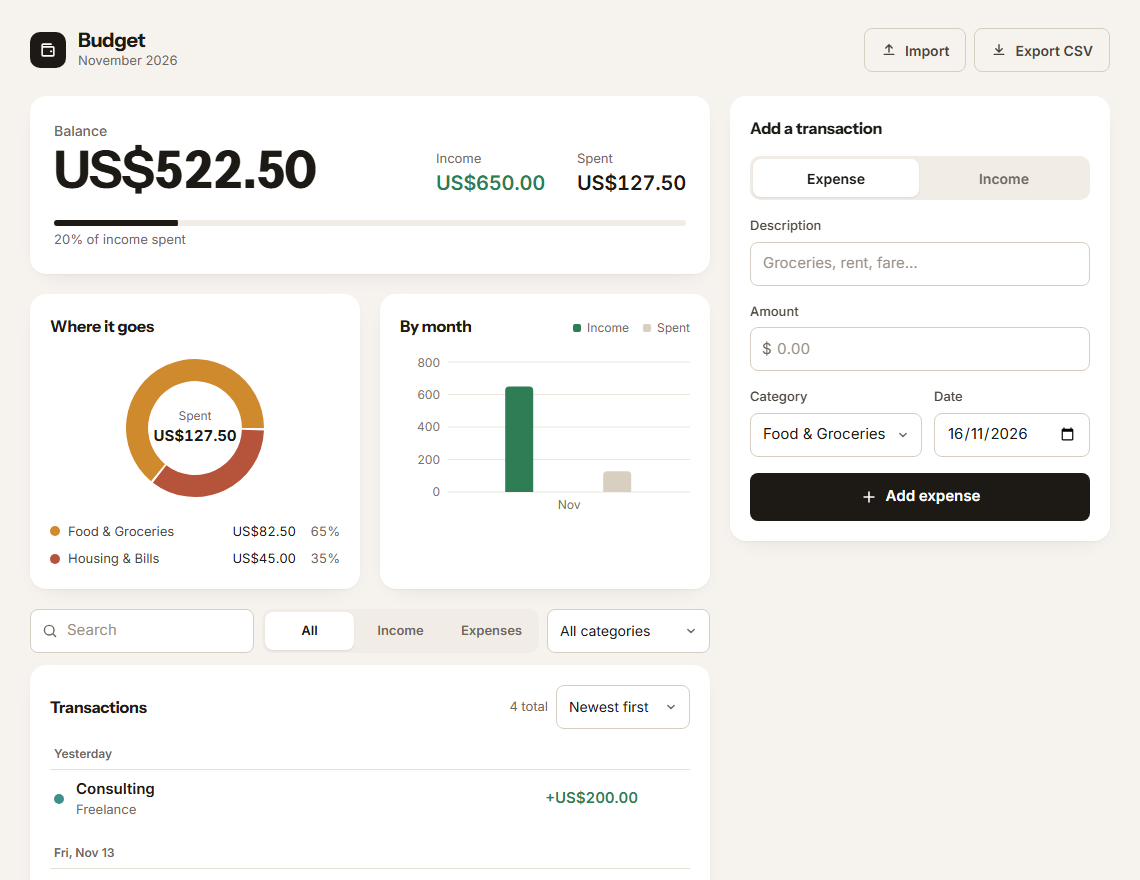
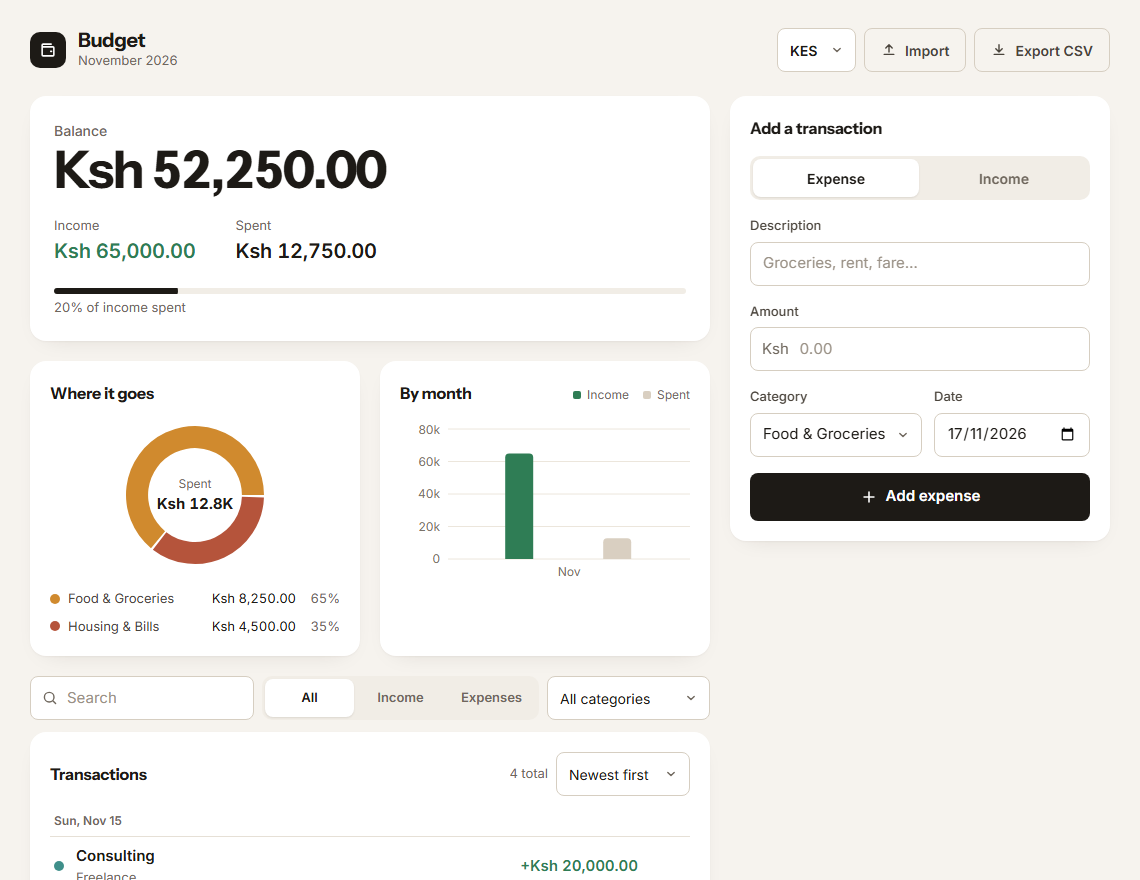
Add currency choice, default to Kenyan shillings
Amounts display in Ksh by default, with UGX, TZS, USD, EUR and GBP in a header picker. The choice is saved with the data (store v2 keeps existing transactions). The amount field shows the right symbol, the donut centre uses a short form, and the balance sits on its own row so long amounts never collide. Sample data now uses realistic shilling amounts.

The filter and sort bar from #2 (search, category, income/expense, sort order) shipped earlier and is part of the current layout.

Closes #5
Closes #2

diff --git a/src/store/useTransactionStore.ts b/src/store/useTransactionStore.ts
@@ -2,6 +2,7 @@ import { create } from 'zustand'
 import { persist, createJSONStorage } from 'zustand/middleware'
 import type { Transaction, TransactionDraft } from '../types'
 import { migrateLegacyData } from '../lib/migrateLegacyData'
+import { DEFAULT_CURRENCY, isCurrencyCode, type CurrencyCode } from '../lib/format'
 
 migrateLegacyData()
 
@@ -14,10 +15,10 @@ function seedTransactions(): Transaction[] {
   }
 
   return [
-    { id: crypto.randomUUID(), description: 'Freelance Project', amount: 450, category: 'freelance', date: isoDaysAgo(6) },
-    { id: crypto.randomUUID(), description: 'Groceries', amount: -82.5, category: 'food', date: isoDaysAgo(4) },
-    { id: crypto.randomUUID(), description: 'Electric Bill', amount: -45, category: 'housing', date: isoDaysAgo(3) },
-    { id: crypto.randomUUID(), description: 'Consulting', amount: 200, category: 'freelance', date: isoDaysAgo(1) },
+    { id: crypto.randomUUID(), description: 'Freelance Project', amount: 45000, category: 'freelance', date: isoDaysAgo(6) },
+    { id: crypto.randomUUID(), description: 'Groceries', amount: -8250, category: 'food', date: isoDaysAgo(4) },
+    { id: crypto.randomUUID(), description: 'Electric Bill', amount: -4500, category: 'housing', date: isoDaysAgo(3) },
+    { id: crypto.randomUUID(), description: 'Consulting', amount: 20000, category: 'freelance', date: isoDaysAgo(1) },
   ]
 }
 
@@ -27,6 +28,9 @@ interface TransactionState {
   deleteTransaction: (id: string) => void
   clearAll: () => void
   importTransactions: (transactions: Transaction[]) => void
+  /** ISO 4217 code used to display amounts. Amounts themselves are stored as plain numbers. */
+  currency: CurrencyCode
+  setCurrency: (currency: CurrencyCode) => void
 }
 
 export const useTransactionStore = create<TransactionState>()(
@@ -47,12 +51,23 @@ export const useTransactionStore = create<TransactionState>()(
       clearAll: () => set({ transactions: [] }),
 
       importTransactions: (transactions) => set({ transactions }),
+
+      currency: DEFAULT_CURRENCY,
+      setCurrency: (currency) => set({ currency }),
     }),
     {
       name: 'budget-tracker-storage',
-      version: 1,
+      version: 2,
       storage: createJSONStorage(() => window.localStorage),
-      partialize: (state) => ({ transactions: state.transactions }),
+      partialize: (state) => ({ transactions: state.transactions, currency: state.currency }),
+      // v1 saved only transactions; keep them and start on the default currency.
+      migrate: (persisted, version) => {
+        const state = (persisted ?? {}) as Partial<TransactionState>
+        if (version < 2 || !state.currency || !isCurrencyCode(state.currency)) {
+          return { ...state, currency: DEFAULT_CURRENCY } as TransactionState
+        }
+        return state as TransactionState
+      },
     }
   )
 )

diff --git a/src/App.tsx b/src/App.tsx
@@ -10,6 +10,7 @@ import TrendChart from './components/TrendChart'
 import ImportExportBar from './components/ImportExportBar'
 import Icon from './components/Icon'
 import { filterAndSortTransactions } from './lib/filters'
+import { CURRENCIES, isCurrencyCode, setActiveCurrency } from './lib/format'
 import type { Filters, Transaction } from './types'
 
 const DEFAULT_FILTERS: Filters = {
@@ -32,6 +33,11 @@ function App() {
   const deleteTransaction = useTransactionStore((s) => s.deleteTransaction)
   const clearAll = useTransactionStore((s) => s.clearAll)
   const replaceAll = useTransactionStore((s) => s.importTransactions)
+  const currency = useTransactionStore((s) => s.currency)
+  const setCurrency = useTransactionStore((s) => s.setCurrency)
+
+  // Formatting reads the active currency; set it before any child renders an amount.
+  setActiveCurrency(currency)
 
   const [filters, setFilters] = useState<Filters>(DEFAULT_FILTERS)
   const [notice, setNotice] = useState<Notice | null>(null)
@@ -72,15 +78,32 @@ function App() {
             <p>{monthLabel}</p>
           </div>
         </div>
-        <ImportExportBar
-          transactions={transactions}
-          onImport={(next, added) => {
-            const snapshot = transactions
-            replaceAll(next)
-            notify(`Imported ${added} ${added === 1 ? 'transaction' : 'transactions'}`, 'info', snapshot)
-          }}
-          onError={(m) => notify(m, 'error')}
-        />
+        <div className="topbar-tools">
+          <select
+            className="input input-sm currency-select"
+            value={currency}
+            onChange={(e) => {
+              if (isCurrencyCode(e.target.value)) setCurrency(e.target.value)
+            }}
+            aria-label="Currency"
+            title="Currency"
+          >
+            {CURRENCIES.map((c) => (
+              <option key={c.code} value={c.code} title={c.label}>
+                {c.code}
+              </option>
+            ))}
+          </select>
+          <ImportExportBar
+            transactions={transactions}
+            onImport={(next, added) => {
+              const snapshot = transactions
+              replaceAll(next)
+              notify(`Imported ${added} ${added === 1 ? 'transaction' : 'transactions'}`, 'info', snapshot)
+            }}
+            onError={(m) => notify(m, 'error')}
+          />
+        </div>
       </header>
 
       <main className="layout">

diff --git a/src/lib/format.ts b/src/lib/format.ts
@@ -1,9 +1,52 @@
 import { format, isToday, isYesterday, parseISO } from 'date-fns'
 
-const currencyFormatter = new Intl.NumberFormat(undefined, {
-  style: 'currency',
-  currency: 'USD',
-})
+// Each currency is shown the way it's written where it's used: KES as "Ksh 1,250.00".
+export const CURRENCIES = [
+  { code: 'KES', label: 'Kenyan shilling', locale: 'en-KE' },
+  { code: 'UGX', label: 'Ugandan shilling', locale: 'en-UG' },
+  { code: 'TZS', label: 'Tanzanian shilling', locale: 'en-TZ' },
+  { code: 'USD', label: 'US dollar', locale: 'en-US' },
+  { code: 'EUR', label: 'Euro', locale: 'en-IE' },
+  { code: 'GBP', label: 'British pound', locale: 'en-GB' },
+] as const
+
+export type CurrencyCode = (typeof CURRENCIES)[number]['code']
+export const DEFAULT_CURRENCY: CurrencyCode = 'KES'
+
+export function isCurrencyCode(value: string): value is CurrencyCode {
+  return CURRENCIES.some((c) => c.code === value)
+}
+
+function makeFormatter(code: CurrencyCode) {
+  const { locale } = CURRENCIES.find((c) => c.code === code)!
+  return new Intl.NumberFormat(locale, { style: 'currency', currency: code })
+}
+
+let activeCurrency: CurrencyCode = DEFAULT_CURRENCY
+let currencyFormatter = makeFormatter(activeCurrency)
+
+/** Switches the currency every formatCurrency call uses. App calls this when the setting changes. */
+export function setActiveCurrency(code: CurrencyCode): void {
+  if (code === activeCurrency) return
+  activeCurrency = code
+  currencyFormatter = makeFormatter(code)
+}
+
+/** Short form for tight spots like the donut centre: "Ksh 12.8K". */
+export function formatCurrencyShort(value: number): string {
+  const { locale } = CURRENCIES.find((c) => c.code === activeCurrency)!
+  return new Intl.NumberFormat(locale, {
+    style: 'currency',
+    currency: activeCurrency,
+    notation: 'compact',
+    maximumFractionDigits: 1,
+  }).format(value)
+}
+
+/** The symbol for the active currency, e.g. "Ksh" or "$", for input prefixes. */
+export function currencySymbol(): string {
+  return currencyFormatter.formatToParts(0).find((p) => p.type === 'currency')?.value ?? activeCurrency
+}
 
 // Axis labels: short numbers, no currency symbol (the axis is all one currency).
 const compactFormatter = new Intl.NumberFormat(undefined, {

diff --git a/src/components/TransactionForm.tsx b/src/components/TransactionForm.tsx
@@ -1,7 +1,7 @@
-import { useRef, useState, type FormEvent } from 'react'
+import { useRef, useState, type CSSProperties, type FormEvent } from 'react'
 import type { TransactionDraft, TransactionType } from '../types'
 import { categoriesForType } from '../constants/categories'
-import { todayISO } from '../lib/format'
+import { currencySymbol, todayISO } from '../lib/format'
 import Icon from './Icon'
 
 interface TransactionFormProps {
@@ -21,6 +21,7 @@ function TransactionForm({ onAdd }: TransactionFormProps) {
   const amountInputRef = useRef<HTMLInputElement>(null)
 
   const availableCategories = categoriesForType(type)
+  const symbol = currencySymbol()
 
   const handleTypeChange = (nextType: TransactionType) => {
     setType(nextType)
@@ -93,8 +94,8 @@ function TransactionForm({ onAdd }: TransactionFormProps) {
 
         <div className="field">
           <label htmlFor="amount">Amount</label>
-          <div className="input-affix">
-            <span aria-hidden="true">$</span>
+          <div className="input-affix" style={{ '--affix': `${symbol.length}ch` } as CSSProperties}>
+            <span aria-hidden="true">{symbol}</span>
             <input
               ref={amountInputRef}
               id="amount"

diff --git a/src/App.css b/src/App.css
@@ -112,10 +112,11 @@
 }
 
 /* ---------- summary ---------- */
+/* Balance on its own row, income and spent beneath: long amounts (Ksh 1,250,000.00) never collide. */
 .summary {
   display: grid;
-  grid-template-columns: minmax(0, 1fr) auto;
-  gap: 4px 32px;
+  grid-template-columns: minmax(0, 1fr);
+  gap: 4px;
   padding: 24px;
 }
 
@@ -140,8 +141,9 @@
 
 .summary-split {
   display: flex;
-  gap: 32px;
-  align-self: end;
+  flex-wrap: wrap;
+  gap: 8px 40px;
+  margin-top: 14px;
 }
 
 .summary-split dt {
@@ -408,7 +410,19 @@ input[type='number'] {
 }
 
 .input-affix .input {
-  padding-left: 26px;
+  /* room for the currency symbol ("Ksh", "$", "USh") plus a gap */
+  padding-left: calc(20px + var(--affix, 1ch));
+}
+
+.topbar-tools {
+  display: flex;
+  align-items: center;
+  gap: 8px;
+}
+
+.currency-select {
+  width: auto;
+  font-weight: 600;
 }
 
 .add-form {
@@ -747,12 +761,6 @@ input[type='number'] {
 @media (max-width: 720px) {
   .charts {
     grid-template-columns: 1fr;
-  }
-  .summary {
-    grid-template-columns: 1fr;
-  }
-  .summary-split {
-    margin-top: 12px;
   }
 }
 

diff --git a/src/lib/__tests__/format.test.ts b/src/lib/__tests__/format.test.ts
@@ -1,0 +1,26 @@
+import { afterEach, describe, expect, it } from 'vitest'
+import { DEFAULT_CURRENCY, currencySymbol, formatCurrency, isCurrencyCode, setActiveCurrency } from '../format'
+
+// Intl output can contain non-breaking spaces; normalise them for readable assertions.
+const plain = (s: string) => s.replace(/ | /g, ' ')
+
+describe('currency formatting', () => {
+  afterEach(() => setActiveCurrency(DEFAULT_CURRENCY))
+
+  it('defaults to Kenyan shillings', () => {
+    expect(DEFAULT_CURRENCY).toBe('KES')
+    expect(plain(formatCurrency(1250))).toBe('Ksh 1,250.00')
+    expect(currencySymbol()).toBe('Ksh')
+  })
+
+  it('switches currency for every later call', () => {
+    setActiveCurrency('USD')
+    expect(plain(formatCurrency(-45))).toBe('-$45.00')
+    expect(currencySymbol()).toBe('$')
+  })
+
+  it('only accepts supported codes', () => {
+    expect(isCurrencyCode('KES')).toBe(true)
+    expect(isCurrencyCode('XYZ')).toBe(false)
+  })
+})

diff --git a/src/components/CategoryChart.tsx b/src/components/CategoryChart.tsx
@@ -2,7 +2,7 @@ import { useMemo } from 'react'
 import { Cell, Pie, PieChart, ResponsiveContainer, Tooltip } from 'recharts'
 import type { Transaction } from '../types'
 import { getCategory } from '../constants/categories'
-import { formatCurrency } from '../lib/format'
+import { formatCurrency, formatCurrencyShort } from '../lib/format'
 
 interface CategoryChartProps {
   transactions: Transaction[]
@@ -63,7 +63,7 @@ function CategoryChart({ transactions }: CategoryChartProps) {
             </ResponsiveContainer>
             <div className="donut-center" aria-hidden="true">
               <span>Spent</span>
-              <b>{formatCurrency(total)}</b>
+              <b title={formatCurrency(total)}>{formatCurrencyShort(total)}</b>
             </div>
           </div>
           <ul className="legend">

diff --git a/README.md b/README.md
@@ -11,6 +11,7 @@ A budget tracking application built with React, TypeScript, and Vite. Track inco
 - **Search, filter & sort** — find transactions by description, category, type, or sort by date/amount
 - **Charts** — spending-by-category breakdown and a monthly income-vs-expense trend
 - **CSV export/import** — back up your data or bring in transactions from elsewhere
+- **Your currency**: Kenyan shillings (Ksh) by default, or switch to UGX, TZS, USD, EUR or GBP; the choice is saved
 - **Undo** for deletes and imports, and a two-step "delete all" so nothing disappears by accident
 - **Grouped by day**, with a balance card that shows how much of your income you have spent
 - **Persistent storage** — data is saved in your browser via `localStorage`, with automatic migration from the original data format
